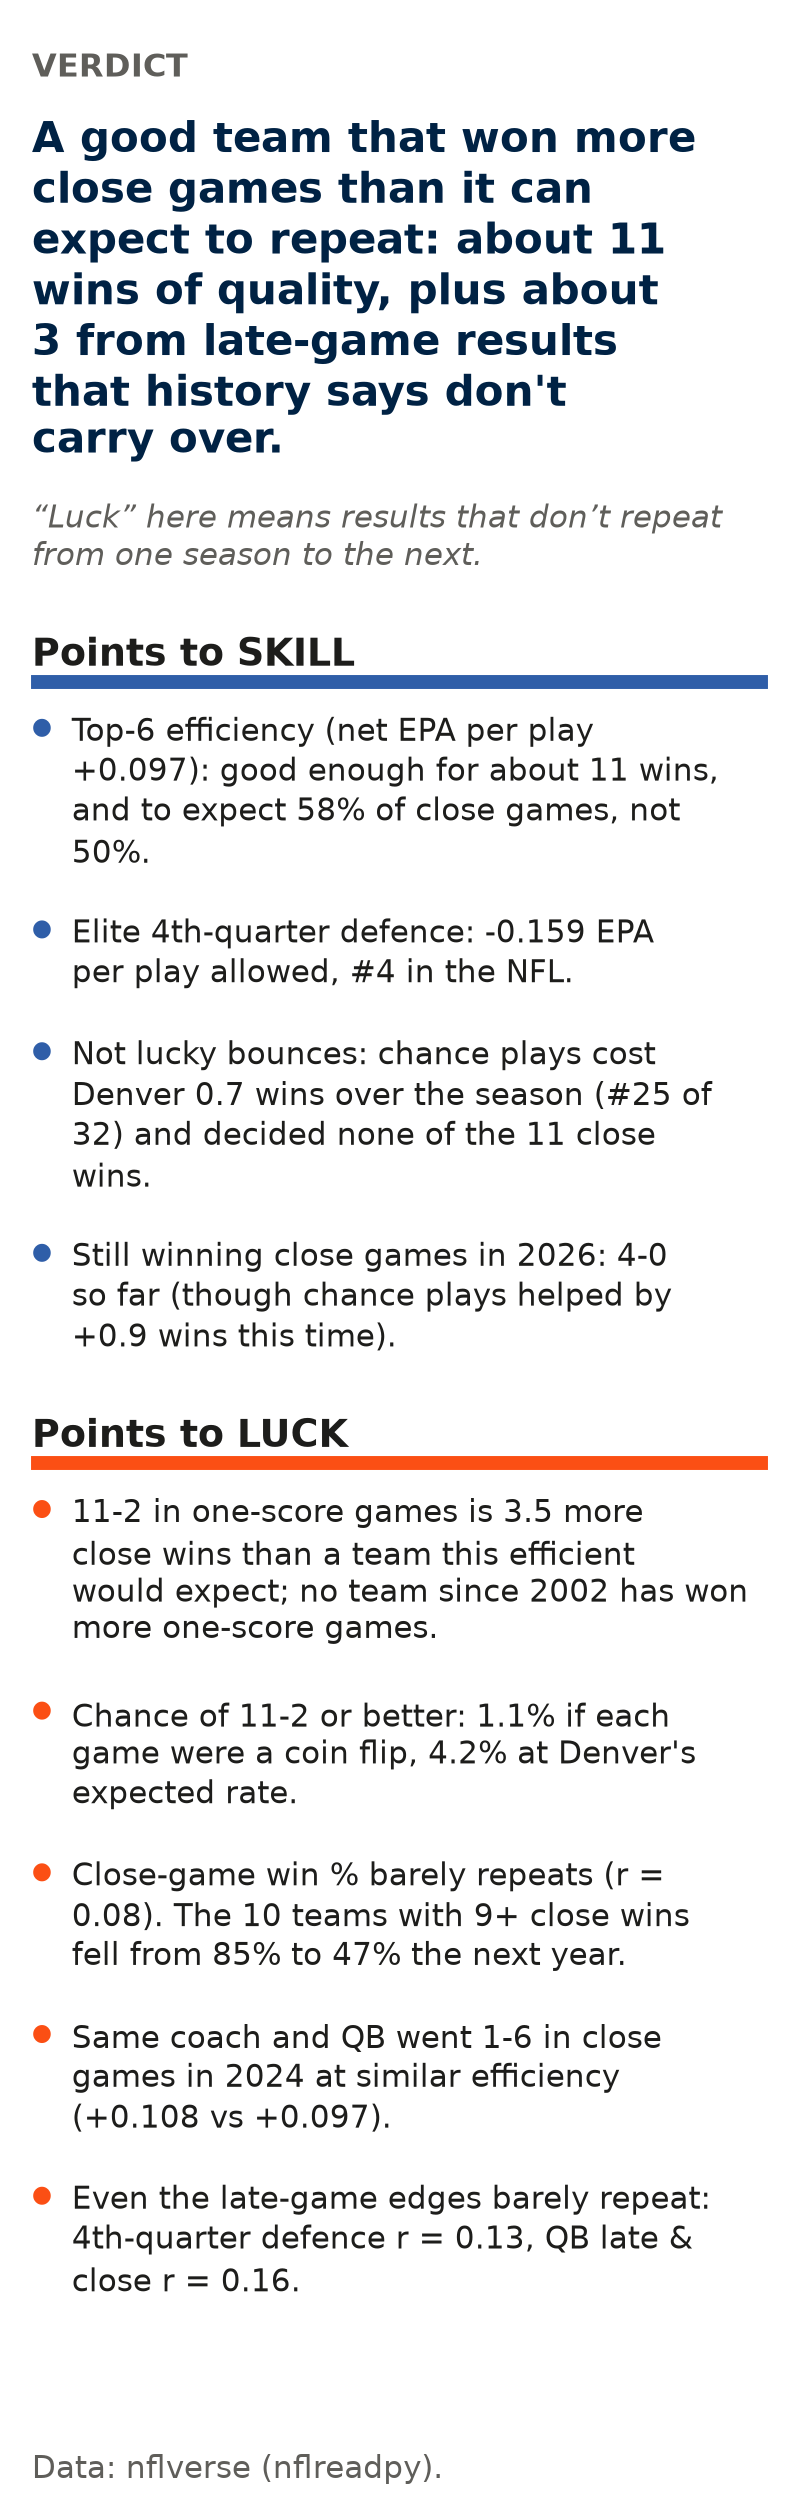
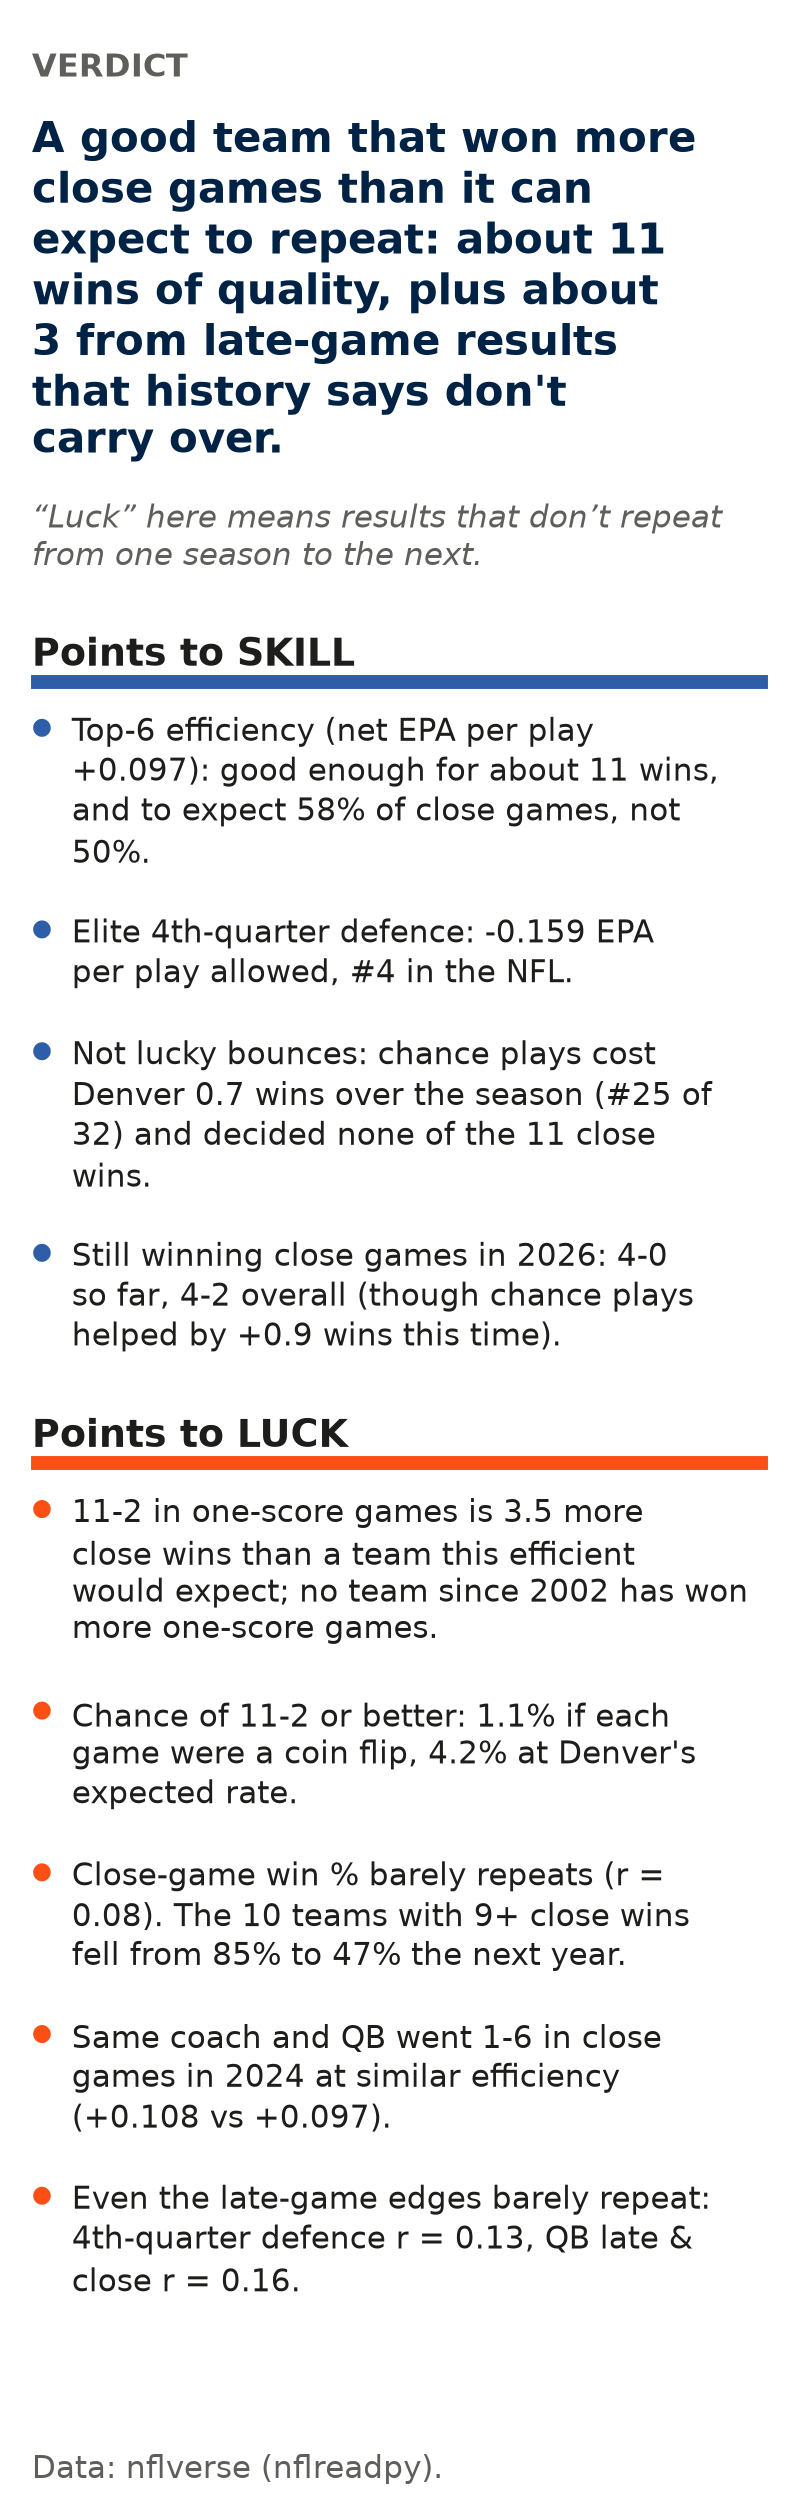
Label Denver's 2026 point as close-game record with overall record

Changed region(s): [[0.0902, 0.4952, 0.8421, 0.5571]]

diff --git a/broncos-luck-or-skill/analysis.py b/broncos-luck-or-skill/analysis.py
@@ -891,8 +891,8 @@ def chart_history(pairs: pd.DataFrame, big: pd.DataFrame, hs: dict, den_now: pd.
     x, y = 100 * den_now.os_win_pct, 100 * live.os_win_pct
     ax.scatter(x, y, s=130, color=ORANGE, edgecolor=SURFACE, linewidth=2, zorder=4,
                label=f"Denver 2025 → {LIVE} so far")
-    ax.annotate(f"DEN 2025 → {LIVE}: {int(live.os_wins)}-{int(live.os_games - live.os_wins)}\n"
-                f"so far (only {int(live.os_games)} games)", (x, y), xytext=(-12, -2),
+    ax.annotate(f"DEN 2025 → {LIVE}: {int(live.os_wins)}-{int(live.os_games - live.os_wins)} in\n"
+                f"close games ({record(live.wins, int(live.games))} overall)", (x, y), xytext=(-12, -2),
                 textcoords="offset points", ha="right", va="top", fontsize=fs(10), fontweight="bold")
     ax.axhline(50, color=MUTED, lw=1)
     ax.plot([70, 101], [nxt] * 2, color=BLUE, lw=2, label=f"9+ teams, next year: {nxt:.0f}%" if L["phone"] else None)
@@ -1204,7 +1204,7 @@ def main():
         f"#{sg.loc['q4_def_epa', 'den_rank_2025']} in the NFL.",
         f"Not lucky bounces: chance plays cost Denver {abs(luck['den_luck_2025']):.1f} wins over the season "
         f"(#{luck['den_luck_rank_2025']} of 32) and decided {word(luck['n_decided_by_luck']).replace('zero', 'none')} of the {int(win_ids.sum())} close wins.",
-        f"Still winning close games in {LIVE}: {lv.os_record} so far (though chance plays helped by "
+        f"Still winning close games in {LIVE}: {lv.os_record} so far, {lv.record} overall (though chance plays helped by "
         f"{luck26['den_luck_close_games']:+.1f} wins this time).",
     ]
     luck_pts = [
